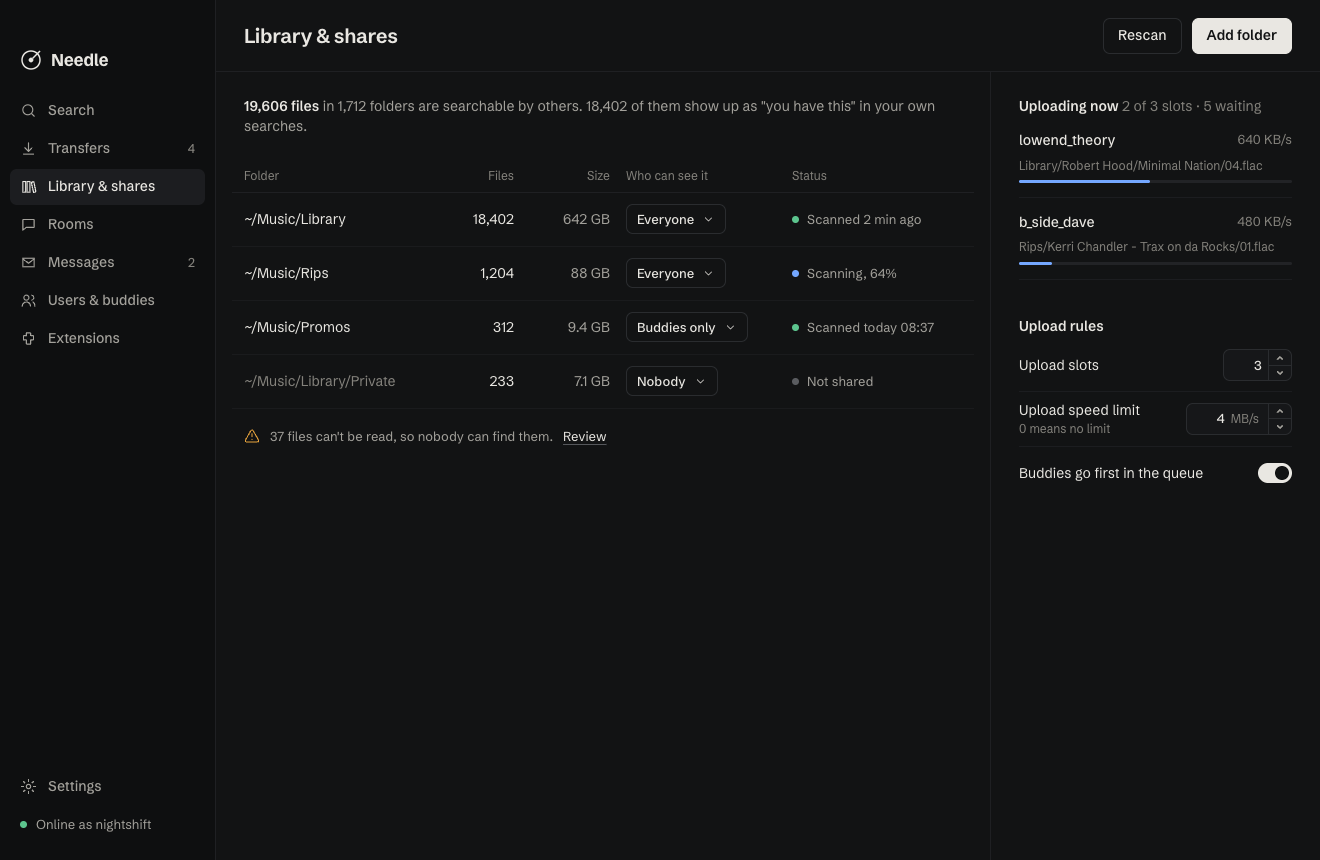
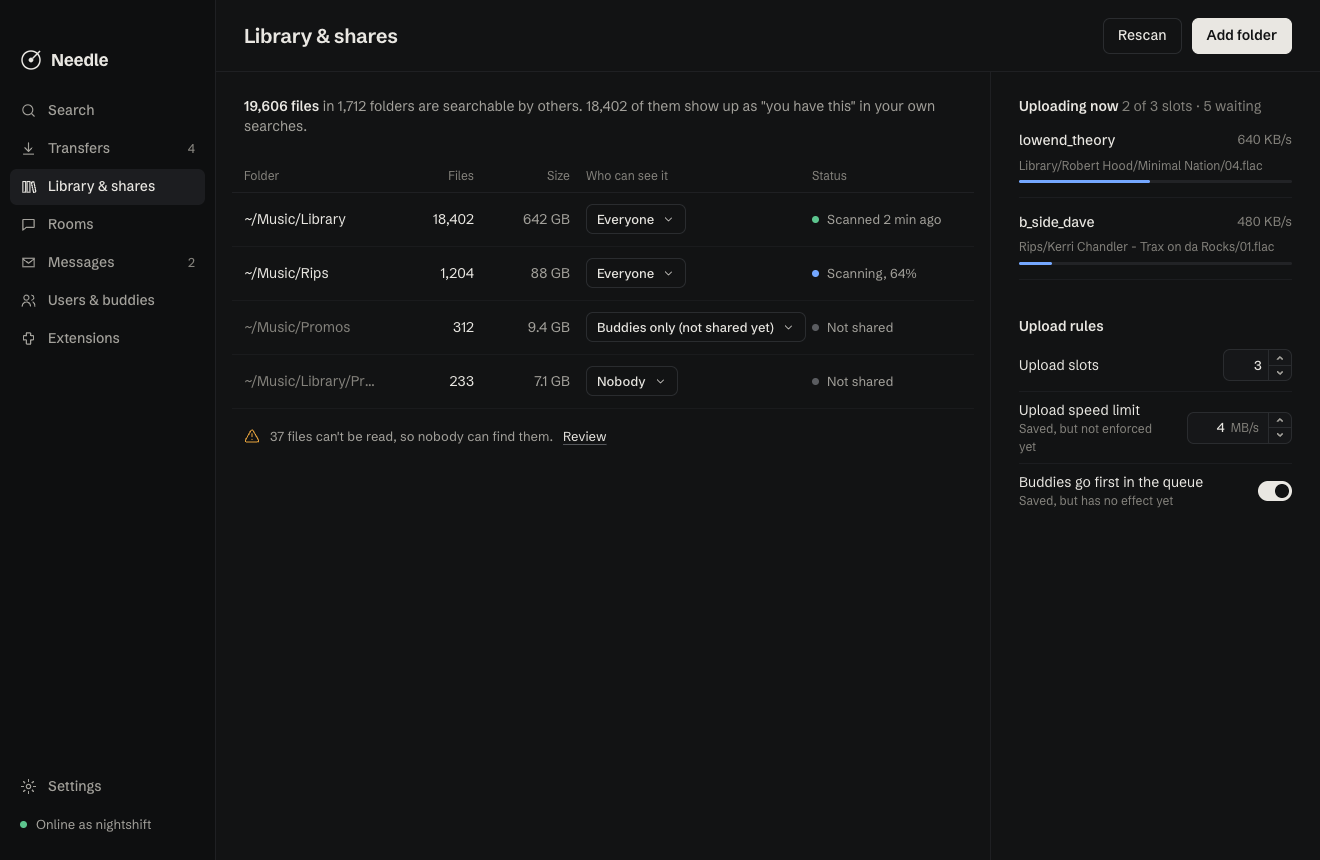
fix(ui): follow real backend login, search and library behaviour

diff --git a/src/screens/__tests__/login.test.tsx b/src/screens/__tests__/login.test.tsx
@@ -1,14 +1,19 @@
-import { screen, waitFor } from "@testing-library/react";
-import { describe, expect, it, vi } from "vitest";
+import { act, screen, waitFor } from "@testing-library/react";
+import { beforeEach, describe, expect, it, vi } from "vitest";
 import { api } from "../../lib/ipc";
 import { keys } from "../../lib/queries";
+import { mockBackend } from "../../mocks/backend";
 import { renderWithProviders } from "../../test/render";
 import { LoginScreen } from "../login";
 
 describe("Login", () => {
+  beforeEach(async () => {
+    await api.logout();
+  });
+
   it("keeps the button disabled until both fields are filled", async () => {
-    const { user } = renderWithProviders(<LoginScreen status={null} />);
-    const button = screen.getByRole("button", { name: "Log in" });
+    const { user } = renderWithProviders(<LoginScreen />);
+    const button = await screen.findByRole("button", { name: "Log in" });
     expect(button).toBeDisabled();
     await user.type(screen.getByLabelText("Username"), "dj");
     expect(button).toBeDisabled();
@@ -16,10 +21,10 @@ describe("Login", () => {
     expect(button).toBeEnabled();
   });
 
-  it("logs in with remember me and stores the session", async () => {
+  it("shows connecting until the session event says online", async () => {
     const spy = vi.spyOn(api, "login");
-    const { user, client } = renderWithProviders(<LoginScreen status={null} />);
-    await user.type(screen.getByLabelText("Username"), " dj ");
+    const { user, client } = renderWithProviders(<LoginScreen />);
+    await user.type(await screen.findByLabelText("Username"), " dj ");
     await user.type(screen.getByLabelText("Password"), "pw");
     await user.click(screen.getByRole("checkbox", { name: "Remember me on this computer" }));
     await user.click(screen.getByRole("button", { name: "Log in" }));
@@ -27,17 +32,35 @@ describe("Login", () => {
     await waitFor(() => expect(client.getQueryData(keys.session)).toMatchObject({ state: "online", username: "dj" }));
   });
 
-  it("shows the backend's error in plain language", async () => {
-    const { user } = renderWithProviders(<LoginScreen status={null} />);
-    await user.type(screen.getByLabelText("Username"), "dj");
+  it("disables the form while connecting", async () => {
+    const { client } = renderWithProviders(<LoginScreen />);
+    await waitFor(() => expect(client.getQueryData(keys.session)).toBeDefined());
+    act(() => client.setQueryData(keys.session, { state: "connecting", username: "dj", error: null, listenPort: 2234, portOpen: null, away: false, remembered: false }));
+    expect(await screen.findByRole("button", { name: "Connecting" })).toBeDisabled();
+  });
+
+  it("shows a failed login from the session event in plain language", async () => {
+    const { user } = renderWithProviders(<LoginScreen />);
+    await user.type(await screen.findByLabelText("Username"), "dj");
     await user.type(screen.getByLabelText("Password"), "wrong");
     await user.click(screen.getByRole("button", { name: "Log in" }));
     expect(await screen.findByRole("alert")).toHaveTextContent("That password doesn't match this username.");
+    expect(screen.getByRole("button", { name: "Log in" })).toBeEnabled();
   });
 
-  it("shows a connection error from the session", () => {
-    renderWithProviders(<LoginScreen status={{ state: "error", username: "dj", error: "Can't reach the Soulseek server.", listenPort: 2234, portOpen: null, away: false, remembered: false }} />);
-    expect(screen.getByRole("alert")).toHaveTextContent("Can't reach the Soulseek server.");
-    expect(screen.getByLabelText("Username")).toHaveValue("dj");
+  it("shows an error the backend reports while offline", async () => {
+    renderWithProviders(<LoginScreen />);
+    await screen.findByRole("button", { name: "Log in" });
+    act(() => mockBackend.emit("session", { state: "error", username: "dj", error: "You logged in somewhere else.", listenPort: 2234, portOpen: null, away: false, remembered: false }));
+    expect(await screen.findByRole("alert")).toHaveTextContent("You logged in somewhere else.");
+  });
+
+  it("shows a command error inline", async () => {
+    vi.spyOn(api, "login").mockRejectedValueOnce("Enter your username and password.");
+    const { user } = renderWithProviders(<LoginScreen />);
+    await user.type(await screen.findByLabelText("Username"), "dj");
+    await user.type(screen.getByLabelText("Password"), "x");
+    await user.click(screen.getByRole("button", { name: "Log in" }));
+    expect(await screen.findByRole("alert")).toHaveTextContent("Enter your username and password.");
   });
 });

diff --git a/src/screens/library/index.tsx b/src/screens/library/index.tsx
@@ -18,9 +18,10 @@ import { ago, bytes, num, plural, speed } from "../../lib/format";
 import { api, errorText } from "../../lib/ipc";
 import { keys, useSaveSettings, useSettings, useShares, useUploads } from "../../lib/queries";
 
-const cols = "grid grid-cols-[minmax(0,1fr)_80px_80px_150px_170px] items-center gap-4 px-3";
+const cols = "grid grid-cols-[minmax(0,1fr)_80px_80px_210px_150px] items-center gap-4 px-3";
 
-export const visibilityLabel: Record<Visibility, string> = { everyone: "Everyone", buddies: "Buddies only", nobody: "Nobody" };
+// Buddies-only sharing isn't supported by the network library yet; say so instead of pretending.
+export const visibilityLabel: Record<Visibility, string> = { everyone: "Everyone", buddies: "Buddies only (not shared yet)", nobody: "Nobody" };
 const visibilityOptions = (Object.keys(visibilityLabel) as Visibility[]).map((v) => ({ value: v, label: visibilityLabel[v] }));
 
 function scanText(s: ScanStatus): { tone: Tone; text: string } {
@@ -116,7 +117,7 @@ export function LibraryScreen() {
               const st = scanText(f.status);
               return (
                 <div key={f.path} className={cn(cols, "h-[54px] border-b border-line-soft")}>
-                  <span className={cn("truncate", f.visibility === "nobody" ? "text-faint" : "text-text")} title={f.path}>
+                  <span className={cn("truncate", f.status.kind === "notShared" ? "text-faint" : "text-text")} title={f.path}>
                     {f.path}
                   </span>
                   <span className="text-right">{num(f.files)}</span>
@@ -224,10 +225,10 @@ function UploadRules() {
       <Field label="Upload slots" htmlFor="slots">
         <Stepper id="slots" value={settings.uploadSlots} min={0} max={20} incLabel="More slots" decLabel="Fewer slots" onChange={(uploadSlots) => save.mutate({ uploadSlots })} />
       </Field>
-      <Field label="Upload speed limit" htmlFor="limit" hint="0 means no limit">
+      <Field label="Upload speed limit" htmlFor="limit" hint="Saved, but not enforced yet">
         <Stepper id="limit" unit="MB/s" value={Math.round(settings.uploadLimitKbps / 1000)} min={0} max={100} incLabel="Raise limit" decLabel="Lower limit" onChange={(v) => save.mutate({ uploadLimitKbps: v * 1000 })} />
       </Field>
-      <Field label="Buddies go first in the queue" labelId="buddies-first" last>
+      <Field label="Buddies go first in the queue" labelId="buddies-first" hint="Saved, but has no effect yet" last>
         <Switch aria-labelledby="buddies-first" checked={settings.buddiesFirst} onCheckedChange={(buddiesFirst) => save.mutate({ buddiesFirst })} />
       </Field>
       {save.isError && <InlineError message={errorText(save.error)} />}

diff --git a/src/__tests__/app.test.tsx b/src/__tests__/app.test.tsx
@@ -1,0 +1,52 @@
+import { QueryClient, QueryClientProvider } from "@tanstack/react-query";
+import { act, render, screen } from "@testing-library/react";
+import { describe, expect, it, vi } from "vitest";
+import type { SessionStatus } from "../bindings/SessionStatus";
+import { mockBackend } from "../mocks/backend";
+
+const runtime = vi.hoisted(() => ({ startExtensionRuntime: vi.fn(async () => {}) }));
+vi.mock("../extensions-runtime", () => ({
+  startExtensionRuntime: runtime.startExtensionRuntime,
+  reloadExtensions: vi.fn(async () => {}),
+  ExtensionPanel: () => null,
+}));
+const { App } = await import("../App");
+
+const session = (s: Partial<SessionStatus>): SessionStatus => ({ state: "online", username: "nightshift", error: null, listenPort: 2234, portOpen: true, away: false, remembered: true, ...s });
+
+function renderApp() {
+  const client = new QueryClient({ defaultOptions: { queries: { retry: false, staleTime: Infinity } } });
+  return render(
+    <QueryClientProvider client={client}>
+      <App />
+    </QueryClientProvider>,
+  );
+}
+
+describe("App session handling", () => {
+  it("starts the extension runtime once after login", async () => {
+    renderApp();
+    expect(await screen.findByRole("navigation", { name: "Main" })).toBeInTheDocument();
+    expect(runtime.startExtensionRuntime).toHaveBeenCalledTimes(1);
+  });
+
+  it("stays in the app while reconnecting and shows why", async () => {
+    renderApp();
+    await screen.findByRole("navigation", { name: "Main" });
+    act(() => mockBackend.emit("session", session({ state: "connecting", error: "Lost the connection to the server, trying again in 10 s" })));
+    expect(await screen.findByText("Reconnecting")).toBeInTheDocument();
+    expect(screen.getByText(/trying again in 10 s/)).toBeInTheDocument();
+    expect(screen.getByRole("navigation", { name: "Main" })).toBeInTheDocument();
+
+    act(() => mockBackend.emit("session", session({ state: "online" })));
+    expect(await screen.findByText("Online as nightshift")).toBeInTheDocument();
+  });
+
+  it("goes back to login when logged in elsewhere", async () => {
+    renderApp();
+    await screen.findByRole("navigation", { name: "Main" });
+    act(() => mockBackend.emit("session", session({ state: "error", error: "Someone logged in with your username somewhere else." })));
+    expect(await screen.findByRole("heading", { name: "Log in to Soulseek" })).toBeInTheDocument();
+    expect(screen.getByRole("alert")).toHaveTextContent("somewhere else");
+  });
+});

diff --git a/src/lib/__tests__/releases.test.ts b/src/lib/__tests__/releases.test.ts
@@ -46,13 +46,15 @@ describe("isComplete and sizeText", () => {
 
 describe("hiddenReason", () => {
   const hidden = homeworkHidden();
+  const withQueue = (q: number | null) => ({ ...hidden[0], best: { ...hidden[0].best, source: { ...hidden[0].best.source, queueLen: q } } });
   it("names the queue when it is over the profile limit", () => {
-    const longQueue = hidden.find((r) => r.best.source.queueLen === 120)!;
-    expect(hiddenReason(longQueue, profile)).toBe("Queue of 120, your limit is 50");
+    expect(hiddenReason(withQueue(120), profile)).toBe("Queue of 120, your limit is 50");
+  });
+  it("does not guess when the queue length is unknown", () => {
+    expect(hiddenReason(withQueue(null), profile)).toBe("Below your profile");
   });
   it("does not blame a queue exactly at the limit", () => {
-    const atLimit = { ...hidden[0], best: { ...hidden[0].best, source: { ...hidden[0].best.source, queueLen: 50 } } };
-    expect(hiddenReason(atLimit, profile)).toBe("Below your profile");
+    expect(hiddenReason(withQueue(50), profile)).toBe("Below your profile");
   });
   it("falls back to the format when no profile is loaded", () => {
     expect(hiddenReason(hidden[2], undefined)).toBe("Below your profile");
@@ -67,5 +69,15 @@ describe("trackTitle", () => {
     ["2 Unlimited - No Limit.mp3", "2 Unlimited - No Limit"],
   ])("%s -> %s", (path, title) => {
     expect(trackTitle(path)).toBe(title);
+  });
+});
+
+describe("availability", () => {
+  it("says a busy peer has no free slot when the queue length is unknown", async () => {
+    const { availability } = await import("../releases");
+    const busy = releases.find((r) => r.best.source.username === "kdj_archive")!;
+    expect(availability(busy)).toEqual({ tone: "idle", text: "No free slot · 840 KB/s" });
+    expect(availability({ ...busy, best: { ...busy.best, source: { ...busy.best.source, queueLen: 3 } } }).text).toBe("Queue 3 · 840 KB/s");
+    expect(availability(releases[0])).toEqual({ tone: "ok", text: "Free · 2.1 MB/s" });
   });
 });

diff --git a/src/lib/nav.tsx b/src/lib/nav.tsx
@@ -11,6 +11,9 @@ export interface SearchTab {
   label: string;
   /** Profile picked for this tab; null = the active profile from settings. */
   profileId: string | null;
+  /** What to run again when the backend has dropped the search. */
+  query: string;
+  scope?: { user: string } | { room: string };
 }
 
 interface Nav {
@@ -22,6 +25,7 @@ interface Nav {
   closeSearch: (id: string) => void;
   setActiveSearch: (id: string | null) => void;
   setTabProfile: (id: string, profileId: string | null) => void;
+  replaceSearch: (oldId: string, tab: SearchTab) => void;
   usersView: UsersView;
   setUsersView: (v: UsersView) => void;
   openUser: (username: string) => void;
@@ -59,6 +63,10 @@ export function NavProvider({ children, initial = "search" }: { children: ReactN
     },
     [searchTabs, activeSearch],
   );
+  const replaceSearch = useCallback((oldId: string, tab: SearchTab) => {
+    setTabs((t) => t.map((x) => (x.id === oldId ? tab : x)));
+    setActiveSearch(tab.id);
+  }, []);
   const setTabProfile = useCallback((id: string, profileId: string | null) => setTabs((t) => t.map((x) => (x.id === id ? { ...x, profileId } : x))), []);
 
   const value = useMemo<Nav>(
@@ -71,6 +79,7 @@ export function NavProvider({ children, initial = "search" }: { children: ReactN
       closeSearch,
       setActiveSearch,
       setTabProfile,
+      replaceSearch,
       usersView,
       setUsersView,
       openUser: (username) => {
@@ -91,7 +100,7 @@ export function NavProvider({ children, initial = "search" }: { children: ReactN
       settingsPage,
       setSettingsPage,
     }),
-    [screen, searchTabs, activeSearch, openSearch, closeSearch, setTabProfile, usersView, conversation, room, settingsPage],
+    [screen, searchTabs, activeSearch, openSearch, closeSearch, setTabProfile, replaceSearch, usersView, conversation, room, settingsPage],
   );
   return <Ctx.Provider value={value}>{children}</Ctx.Provider>;
 }

diff --git a/src/screens/search/index.tsx b/src/screens/search/index.tsx
@@ -34,7 +34,7 @@ export function SearchScreen() {
   const start = useMutation({
     mutationFn: (q: string) => api.searchStart(q.trim(), profileId),
     onSuccess: (id, q) => {
-      nav.openSearch({ id, label: q.trim(), profileId });
+      nav.openSearch({ id, label: q.trim(), profileId, query: q.trim() });
       setWishlist(false);
       void qc.invalidateQueries({ queryKey: keys.history });
     },
@@ -130,6 +130,15 @@ function Results({ tab, profileId, profile }: { tab: SearchTab; profileId: strin
   const [completeOnly, setCompleteOnly] = useState(false);
   const [selectedId, setSelectedId] = useState<string | null>(null);
 
+  const nav = useNav();
+  // The backend keeps the last 20 searches; an older tab has to run again.
+  const rerun = useMutation({
+    mutationFn: () => {
+      const s = tab.scope;
+      return s && "user" in s ? api.searchUser(s.user, tab.query) : s && "room" in s ? api.searchRoom(s.room, tab.query) : api.searchStart(tab.query, profileId);
+    },
+    onSuccess: (id) => nav.replaceSearch(tab.id, { ...tab, id }),
+  });
   const view = useQuery({
     queryKey: keys.searchView(tab.id, profileId, showHidden),
     queryFn: () => api.searchView(tab.id, profileId, showHidden),
@@ -152,7 +161,8 @@ function Results({ tab, profileId, profile }: { tab: SearchTab; profileId: strin
   if (view.isError && !data) {
     return (
       <div className="grow p-7">
-        <InlineError message={errorText(view.error)} onRetry={() => view.refetch()} />
+        <InlineError message={errorText(view.error)} onRetry={() => rerun.mutate()} retryLabel="Search again" />
+        {rerun.isError && <div className="pt-3"><InlineError message={errorText(rerun.error)} /></div>}
       </div>
     );
   }

diff --git a/src/mocks/__tests__/backend.test.ts b/src/mocks/__tests__/backend.test.ts
@@ -52,12 +52,16 @@ describe("mock ipc", () => {
     await expect(api.jobKeepFile("j2", "nope.flac")).rejects.toBe("That file is not part of this download.");
   });
 
-  it("logs in, rejects a wrong password and logs out", async () => {
+  it("answers login with connecting and reports the outcome as an event", async () => {
     await api.logout();
-    await expect(api.login("dj", "wrong", false)).rejects.toMatch(/doesn't match/);
+    const seen: string[] = [];
+    const off = on("session", (s) => seen.push(`${s.state}:${s.error ?? ""}`));
     await expect(api.login("", "x", false)).rejects.toBe("Enter your username and password.");
-    const s = await api.login("dj", "secret", true);
-    expect(s).toMatchObject({ state: "online", username: "dj", remembered: true });
+    expect(await api.login("dj", "wrong", false)).toMatchObject({ state: "connecting" });
+    await vi.waitFor(() => expect(seen.at(-1)).toMatch(/^error:That password doesn't match/));
+    expect(await api.login("dj", "secret", true)).toMatchObject({ state: "connecting", remembered: true });
+    await vi.waitFor(() => expect(seen.at(-1)).toBe("online:"));
+    off();
     expect((await api.logout()).state).toBe("offline");
   });
 

diff --git a/src/mocks/backend.ts b/src/mocks/backend.ts
@@ -243,7 +243,7 @@ export function createMockBackend(opts: { latency?: number; simulate?: boolean }
         ...s.shares,
         folders: s.shares.folders.map((f) =>
           f.path === str(a, "path")
-            ? { ...f, visibility, status: visibility === "nobody" ? { kind: "notShared" } : f.status.kind === "notShared" ? { kind: "scanned", at_ms: Date.now() } : f.status }
+            ? { ...f, visibility, status: visibility !== "everyone" ? { kind: "notShared" } : f.status.kind === "notShared" ? { kind: "scanned", at_ms: Date.now() } : f.status }
             : f,
         ),
       };
@@ -252,7 +252,7 @@ export function createMockBackend(opts: { latency?: number; simulate?: boolean }
     shares_rescan: () => {
       s.shares = {
         ...s.shares,
-        folders: s.shares.folders.map((f) => (f.visibility === "nobody" ? f : { ...f, status: { kind: "scanning", percent: 0 } })),
+        folders: s.shares.folders.map((f) => (f.visibility !== "everyone" ? f : { ...f, status: { kind: "scanning", percent: 0 } })),
       };
       later(1500, () => {
         s.shares = {

diff --git a/src/mocks/fixtures.ts b/src/mocks/fixtures.ts
@@ -353,7 +353,7 @@ export const shares = (): SharesView => ({
   folders: [
     { path: "~/Music/Library", visibility: "everyone", files: 18402, bytes: 642e9, status: { kind: "scanned", at_ms: NOW - 2 * min } },
     { path: "~/Music/Rips", visibility: "everyone", files: 1204, bytes: 88e9, status: { kind: "scanning", percent: 64 } },
-    { path: "~/Music/Promos", visibility: "buddies", files: 312, bytes: 9.4e9, status: { kind: "scanned", at_ms: NOW - 3 * 60 * min } },
+    { path: "~/Music/Promos", visibility: "buddies", files: 312, bytes: 9.4e9, status: { kind: "notShared" } },
     { path: "~/Music/Library/Private", visibility: "nobody", files: 233, bytes: 7.1e9, status: { kind: "notShared" } },
   ],
   sharedFiles: 19606,

diff --git a/src/screens/settings/pages.tsx b/src/screens/settings/pages.tsx
@@ -128,7 +128,7 @@ export function NetworkPage() {
                     : "Needle hasn't checked your port yet."}
               </span>
             </div>
-            <Field label="Listening port" htmlFor="port" hint="Applies after you log in again">
+            <Field label="Listening port" htmlFor="port" hint="Applies the next time you log in">
               <Stepper id="port" incLabel="Next port" decLabel="Previous port" value={s.listenPort} min={1024} max={65535} onChange={(listenPort) => save({ listenPort })} className="[&_input]:w-16" />
             </Field>
             <Field label="Open the port on my router automatically" labelId="upnp" hint="Uses UPnP or NAT-PMP" last>

diff --git a/src/screens/search/__tests__/search.test.tsx b/src/screens/search/__tests__/search.test.tsx
@@ -31,8 +31,7 @@ describe("Search results", () => {
     await screen.findByText("Hidden by your profile");
     expect(spy).toHaveBeenLastCalledWith(expect.any(String), "lossless-first", true);
     expect(rows()).toHaveLength(10);
-    expect(screen.getByText("Queue of 120, your limit is 50")).toBeInTheDocument();
-    expect(screen.getAllByText("Below your profile")).toHaveLength(3);
+    expect(screen.getAllByText("Below your profile")).toHaveLength(4);
 
     await user.click(screen.getByRole("button", { name: "Hide the hidden files" }));
     await waitFor(() => expect(screen.queryByText("Hidden by your profile")).not.toBeInTheDocument());

diff --git a/src/lib/__tests__/jobs.test.ts b/src/lib/__tests__/jobs.test.ts
@@ -20,7 +20,9 @@ describe("jobStatus", () => {
     expect(jobStatus(j, j.log[0].atMs + 6 * 60_000).text).toBe("Downloading 3 of 6");
   });
   it("shows queue position and failures", () => {
-    expect(jobStatus(byId("j4")).text).toBe("Position 14 in queue");
+    // The library often doesn't know the position.
+    expect(jobStatus(byId("j4")).text).toBe("Queued");
+    expect(jobStatus({ ...byId("j4"), status: { kind: "queued", position: 14 } }).text).toBe("Position 14 in queue");
     expect(jobStatus({ ...byId("j1"), status: { kind: "failed", reason: "No source left" } })).toMatchObject({ tone: "bad", sub: "No source left" });
   });
 });
